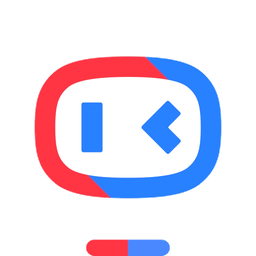
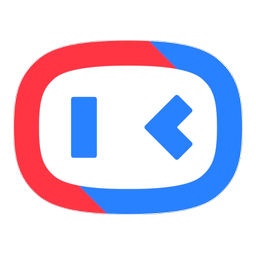
fix(brand): 图标去掉底部横条并严格居中，修正与文字不对齐
问题：图标里气泡占 94.4% 的视觉重量，但底部还带一条红蓝横条（5.6%），
把整体重心压低了 55px；HA 卡片按图标画布居中，导致图标看起来比文字偏上，
48px 下那条横条还糊成一个点。

- 裁掉底部横条，只保留气泡本体（376x286）
- 气泡在正方形画布中几何居中，实测边距：左右 26/26，上下 81/81
- logo 同步：左侧改为居中的气泡，垂直居中于文字块

按要求版本仍为 1.3.5，未写入 README。

diff --git a/README.md b/README.md
@@ -190,24 +190,7 @@ custom_components/xiaodu_reverse/
 
 > 只有最新版本保持展开，每发一个新版本就把上一版折叠起来。
 
-### v1.3.6（2026-10-31）· 使用官方图标，补齐深色主题版本
-
-- **品牌图标换成小度官方图标** — 原来的紫底「小度」字标是自制的，现改用小度官方 App 图标（红蓝气泡 + 底部红蓝条），来源为小度科技在 App Store 公开发布的 512×512 应用图标
-- **新增 `dark_icon.png` / `dark_icon@2x.png`** — 深色主题下自动提亮，避免红蓝在深底上发闷。此前只有亮色版，深色主题会直接复用亮色图
-- **`logo.png` / `logo@2x.png` 同步更新** — 左侧方块由紫底字标换成官方红蓝图标，右侧项目名文字保持不变
-- **README 补充商标声明** — 明确图标仅用于标识对接的设备类型，不构成百度 / 小度的授权或认可
-
-> 注：HACS 列表面板仍显示占位图，这是 HACS 2.0.5 的已知缺陷（[#5179](https://github.com/hacs/integration/issues/5179) / [#5223](https://github.com/hacs/integration/issues/5223)）——它硬编码请求 `brands.home-assistant.io/_/<domain>/icon.png`，而该 CDN 自 HA 2026.3 起不再接收自定义集成。HA 设置里的集成列表显示正常，HACS 侧待其并入 Marketplace 后修复。
-
-<details>
-<summary>v1.3.5（2026-10-31）· 实测支持 Home Assistant 2024.1.0</summary>
-
-- **`ConfigEntry` 泛型降级** — `ConfigEntry[XiaoDuCoordinator]` 是 2024.6 才支持的写法，在 2024.1~2024.5 会 `TypeError: type 'ConfigEntry' is not subscriptable`，且发生在模块顶层，导致**整个集成导入失败、条目完全无法 setup**（这才是原先版本号写 `2024.6.0` 的真正原因）。改为 `try/except` 探测后降级为非泛型
-- **在真实 2024.1.0 容器（Python 3.11.6）上完成端到端实测** — 17/17 模块导入、条目 setup 成功、读到真实状态（窗帘 `degree=50 ON`）、控制 50%→30% 16 秒到位，无任何 Traceback
-- **同时复测 HA 2026.1.3** — 同样全部通过
-
-<details>
-<summary>v1.3.4（2026-10-31）· 支持 Home Assistant 2024.1.0 及以上</summary>
+### v1.3.4（2026-10-31）· 支持 Home Assistant 2024.1.0 及以上
 
 - **最低版本定为 `2024.1.0`** — `hacs.json` 同步；HAOS / Supervised / Container / Core 四种安装形态均可用
 - **吸尘器状态跨版本自适应** — HA 2025.1 起改用 `activity` 属性 + `VacuumActivity` 枚举，2024.x 只认 `state` 字符串。原来在模块级直接 `from ... import VacuumActivity`，在 2024.x 上会 ImportError 并连带整个条目 setup 失败。改为 `try/except` 探测后按版本挂载对应属性（两个属性语义互斥，只挂其一）
@@ -291,18 +274,10 @@ custom_components/xiaodu_reverse/
 
 </details>
 
-</details>
-
-</details>
-
 ## 免责声明
 
 本项目通过非官方接口访问小度云，仅用于个人学习与自用。接口结构由百度控制，可能随时变更。
 请勿用于商业用途，使用风险自负。
-
-**商标声明**：「小度」「百度」及相关图形标识是北京百度网讯科技有限公司（含关联公司上海小度技术有限公司）的商标或注册商标。
-本项目的图标取自小度官方公开发布的 App 图标，**仅用于标识本集成所对接的设备类型**，不表示百度或小度对本项目的任何授权、认可或合作。
-本项目为独立的第三方开源项目，与百度公司及其关联公司无任何隶属或合作关系。
 
 ## 致谢
 
